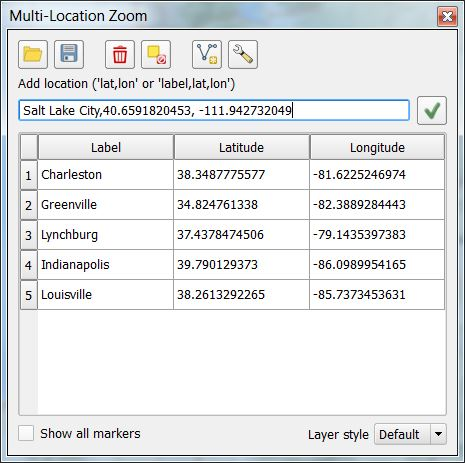
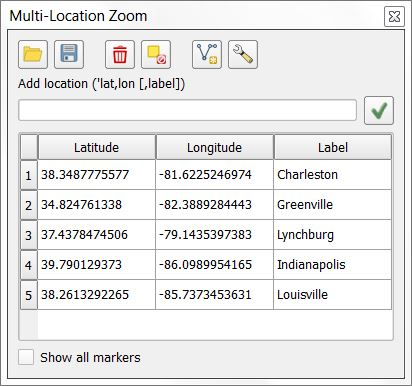
rearranged the multi-zoom coordinate/label order

diff --git a/multizoom.py b/multizoom.py
@@ -23,6 +23,7 @@ class MultiZoomWidget(QDockWidget, FORM_CLASS):
         self.iface = lltools.iface
         self.canvas = self.iface.mapCanvas()
         self.lltools = lltools
+        self.llitems=[]
         
         self.addButton.setIcon(QIcon(os.path.dirname(__file__) + "/images/check.png"))
         self.openButton.setIcon(QIcon(':/images/themes/default/mActionFileOpen.svg'))
@@ -32,7 +33,6 @@ class MultiZoomWidget(QDockWidget, FORM_CLASS):
         self.createLayerButton.setIcon(QIcon(':/images/themes/default/mActionNewVectorLayer.svg'))
         self.optionsButton.setIcon(QIcon(':/images/themes/default/mActionOptions.svg'))
         
-        self.markerStyleComboBox.addItems(['Default','Labeled','Custom'])
         self.openButton.clicked.connect(self.openDialog)
         self.saveButton.clicked.connect(self.saveDialog)
         self.addButton.clicked.connect(self.addSingleCoord)
@@ -47,13 +47,12 @@ class MultiZoomWidget(QDockWidget, FORM_CLASS):
         self.maxResults = 1000
         self.resultsTable.setColumnCount(3)
         self.resultsTable.setSortingEnabled(False)
-        self.resultsTable.setHorizontalHeaderLabels(['Label','Latitude','Longitude'])
+        self.resultsTable.setHorizontalHeaderLabels(['Latitude','Longitude','Label'])
         self.resultsTable.horizontalHeader().setResizeMode(QHeaderView.Stretch)
         self.resultsTable.setSelectionBehavior(QAbstractItemView.SelectRows)
         self.resultsTable.cellClicked.connect(self.itemClicked)
         self.resultsTable.cellChanged.connect(self.cellChanged)
         self.resultsTable.setSelectionMode(QAbstractItemView.SingleSelection)
-        self.llitems=[]
 
     def closeEvent(self, e):
         '''Called when the dialog box is being closed. We want to clear selected features and remove
@@ -130,14 +129,13 @@ class MultiZoomWidget(QDockWidget, FORM_CLASS):
                 for line in f:
                     try:
                         parts = [x.strip() for x in line.split(',')]
-                        if len(parts) == 2:
+                        if len(parts) >=2:
                             lat = LatLon.parseDMSStringSingle(parts[0])
                             lon = LatLon.parseDMSStringSingle(parts[1])
-                            self.addCoord(lat, lon, '')
-                        elif len(parts) == 3:
-                            lat = LatLon.parseDMSStringSingle(parts[1])
-                            lon = LatLon.parseDMSStringSingle(parts[2])
-                            self.addCoord(lat, lon, parts[0])
+                            label = ''
+                            if len(parts) >= 3:
+                                label = parts[2]
+                            self.addCoord(lat, lon, label)
                     except:
                         pass
         except:
@@ -149,7 +147,7 @@ class MultiZoomWidget(QDockWidget, FORM_CLASS):
             return
         with open(fname,'w') as f:
             for item in self.llitems:
-                s = "{},{},{}\n".format(item.label, item.lat, item.lon)
+                s = "{},{},{}\n".format(item.lat, item.lon, item.label)
                 f.write(s)
         f.close()
             
@@ -171,13 +169,12 @@ class MultiZoomWidget(QDockWidget, FORM_CLASS):
         parts = [x.strip() for x in self.addLineEdit.text().split(',')]
         label = ''
         try:
-            if len(parts) == 2:
+            if len(parts) >= 2:
                 lat = LatLon.parseDMSStringSingle(parts[0])
                 lon = LatLon.parseDMSStringSingle(parts[1])
-            elif len(parts) == 3:
-                label = parts[0]
-                lat = LatLon.parseDMSStringSingle(parts[1])
-                lon = LatLon.parseDMSStringSingle(parts[2])
+                label = ''
+                if len(parts) >= 3:
+                    label = parts[2]
             else:
                 self.iface.messageBar().pushMessage("", "Invalid Coordinate" , level=QgsMessageBar.WARNING, duration=3)
                 return
@@ -195,13 +192,13 @@ class MultiZoomWidget(QDockWidget, FORM_CLASS):
         self.resultsTable.insertRow(self.numcoord)
         self.llitems.append(LatLonItem(lat, lon, label))
         self.resultsTable.blockSignals(True)
-        self.resultsTable.setItem(self.numcoord, 0, QTableWidgetItem(label))
+        self.resultsTable.setItem(self.numcoord, 2, QTableWidgetItem(label))
         item = QTableWidgetItem(str(lat))
         item.setFlags(item.flags() & ~Qt.ItemIsEditable)
-        self.resultsTable.setItem(self.numcoord, 1, item)
+        self.resultsTable.setItem(self.numcoord, 0, item)
         item = QTableWidgetItem(str(lon))
         item.setFlags(item.flags() & ~Qt.ItemIsEditable)
-        self.resultsTable.setItem(self.numcoord, 2, item)
+        self.resultsTable.setItem(self.numcoord, 1, item)
         self.resultsTable.blockSignals(False)
         self.numcoord += 1
         if self.showAllCheckBox.checkState():
@@ -231,7 +228,7 @@ class MultiZoomWidget(QDockWidget, FORM_CLASS):
 
         
     def cellChanged(self, row, col):
-        if col == 0:
+        if col == 2:
             self.llitems[row].label = self.resultsTable.item(row, col).text()
             
     def createLayer(self):
@@ -240,28 +237,27 @@ class MultiZoomWidget(QDockWidget, FORM_CLASS):
             return
         ptLayer = QgsVectorLayer("Point?crs=epsg:4326", u"Lat Lon Locations", "memory")
         provider = ptLayer.dataProvider()
-        provider.addAttributes([QgsField("label", QVariant.String),
-            QgsField("latitude", QVariant.Double),
-            QgsField("longitude", QVariant.Double)])
+        provider.addAttributes([QgsField("latitude", QVariant.Double),
+            QgsField("longitude", QVariant.Double),
+            QgsField("label", QVariant.String)])
         ptLayer.updateFields()
         
         for item in self.llitems:
             feature = QgsFeature()
             feature.setGeometry(QgsGeometry.fromPoint(QgsPoint(item.lon,item.lat)))
-            feature.setAttributes([item.label, item.lat, item.lon])
+            feature.setAttributes([item.lat, item.lon, item.label])
             provider.addFeatures([feature])
         
         ptLayer.updateExtents()
         
-        if self.markerStyleComboBox.currentIndex() == 1:
+        if self.settings.multiZoomStyleID == 1:
             label = QgsPalLayerSettings()
             label.readFromLayer(ptLayer)
             label.enabled = True
             label.fieldName = 'label'
             label.placement= QgsPalLayerSettings.AroundPoint
-            label.setDataDefinedProperty(QgsPalLayerSettings.Size,True,True,'9','')
             label.writeToLayer(ptLayer)
-        elif self.markerStyleComboBox.currentIndex() == 2 and os.path.isfile(self.settings.customQMLFile()):
+        elif self.settings.multiZoomStyleID == 2 and os.path.isfile(self.settings.customQMLFile()):
             ptLayer.loadNamedStyle(self.settings.customQMLFile())
             
         QgsMapLayerRegistry.instance().addMapLayer(ptLayer)

diff --git a/settings.py b/settings.py
@@ -54,11 +54,10 @@ class SettingsWidget(QDialog, FORM_CLASS):
         
         ### MULTI-ZOOM ###
         self.qmlBrowseButton.clicked.connect(self.qmlOpenDialog)
-        
+        self.markerStyleComboBox.addItems(['Default','Labeled','Custom'])
         
         self.readSettings()
-
-        
+    
     def captureCustomCRS(self):
         return self.captureProjectionSelectionWidget.crs()
         
@@ -96,6 +95,7 @@ class SettingsWidget(QDialog, FORM_CLASS):
         
         ### Multi-zoom Settings ###
         self.qmlLineEdit.setText('')
+        self.markerStyleComboBox.setCurrentIndex(0)
         
     def readSettings(self):
         '''Load the user selected settings. The settings are retained even when
@@ -121,10 +121,11 @@ class SettingsWidget(QDialog, FORM_CLASS):
         self.mapZoom = int(settings.value('/LatLonTools/MapZoom', 13))
         
         ### MULTI-ZOOM CUSTOM QML STYLE ###
+        self.multiZoomStyleID = int(settings.value('/LatLonTools/MultiZoomStyleID', 0))
         self.qmlStyle = settings.value('/LatLonTools/QmlStyle', '')
         if not os.path.isfile(self.qmlStyle):
             self.qmlStyle = ''
-        self.qmlLineEdit.setText(self.qmlStyle)
+            self.multiZoomStyleID = 0
         
         self.setEnabled()
         
@@ -161,6 +162,7 @@ class SettingsWidget(QDialog, FORM_CLASS):
         settings.setValue('/LatLonTools/MapZoom',int(self.zoomSpinBox.value()))
         
         ### MULTI-ZOOM CUSTOM QML STYLE ###
+        settings.setValue('/LatLonTools/MultiZoomStyleID', int(self.markerStyleComboBox.currentIndex()))
         settings.setValue('/LatLonTools/QmlStyle', self.qmlStyle)
         
         self.readSettings()
@@ -223,6 +225,10 @@ class SettingsWidget(QDialog, FORM_CLASS):
         self.showPlacemarkCheckBox.setCheckState(self.showPlacemark)
         self.mapProviderComboBox.setCurrentIndex(self.mapProvider)
         self.zoomSpinBox.setValue(self.mapZoom)
+
+        ### MULTI-ZOOM CUSTOM QML STYLE ###
+        self.markerStyleComboBox.setCurrentIndex(self.multiZoomStyleID)
+        self.qmlLineEdit.setText(self.qmlStyle)
         
         self.setEnabled()
 

diff --git a/readme.md b/readme.md
@@ -18,20 +18,16 @@
 
 * <img src="images/mapicon.png" alt="Show in External Map"> ***Show in External Map*** - With this tool, the user can click on the QGIS map which launches an external browser and displays the location on an external map. Currently Open Street Map, Google Maps, and Bing Maps are supported. The desired map can be configured in **Settings**.
 * <img src="images/multizoom.png" alt="Multi-location Zoom"> ***Multi-location Zoom*** - Here the user can define a set of quick zoom-to locations. The user can also paste or type in a coordinate in the ***Add location*** box and add it to the list.  When the user clicks on a list location, QGIS centers the map on the location and highlights it. Double clicking on a **Label** cell allows the text to be edited. The following are additional functions.
-    * <img src="doc/open.png" alt="Open"> ***Open Location List*** reads in a set of coordinates that are comma separated with an optional label. There should only be one location per line and formatted as **"label,latitude,longitude"** or **"latitude,longitude"**.
-    * <img src="doc/save.png" alt="Save"> ***Save Location List*** saves all of the zoom-to entries in a .csv file, formatted as **"label,latitude,longitude"**.
+    * <img src="doc/open.png" alt="Open"> ***Open Location List*** reads in a set of coordinates that are comma separated with an optional label. There should only be one location per line and formatted as **"latitude,longitude,label"** or **"latitude,longitude"**.
+    * <img src="doc/save.png" alt="Save"> ***Save Location List*** saves all of the zoom-to entries in a .csv file, formatted as **"latitude,longitude,label"**.
     * <img src="doc/delete.png" alt="Delete"> ***Delete Selected Location*** removes the selected location. 
     * <img src="doc/deleteall.png" alt="Clear All"> ***Clear All Locations*** removes all of the list entries.
     * <img src="doc/newlayer.png" alt="New"> ***Create Vector Layer From Location List*** creates a memory layer out of the zoom-to locations. 
-    * <img src="doc/settings.png" alt="Settings"> ***Show Style Settings*** chooses a QGIS .qml file to be used to style the layer created from the create layer button.
+    * <img src="doc/settings.png" alt="Settings"> ***Show Style Settings*** chooses a style for the layer created from the create layer button. This displays the **Settings** dialog box.
 
     <div style="text-align:center"><img src="doc/multizoom.jpg" alt="Multi-location Zoom"></div>
     
     * The ***Show all markers*** displays markers of all locations.
-    * ***Layer style*** determins whether the ***Create Vector Layer Fron Location List*** styles the newly created points layer or not. The options are:
-        * ***Default*** - No style is applied.
-        * ***Label*** - The newly created layer will have labels next to the points.
-        * ***Custom*** - The user can create a QGIS .qml file that contains style infomation on how to style the new layer. If this is configured, then this will apply this style to the new layer.
 
 * ***MGRS Conversions***
     * <img src="images/mgrs2point.png" alt="MGRS to Geometry"> ***MGRS to Geometry*** - This takes a table or vector layer and if there is a field that contains MGRS coordinates, it converts the layer to a new point vector layer where each record is converted to WGS84 (EPSG:4326) geometry.
@@ -123,4 +119,9 @@ Here you can ***Select an External Map Provider***. The options are:
 
 ![Multi-zoom Settings](doc/settings4.jpg)
 
-Here the user can specify a .qml style file that contains styling used by the ***Multi-zoom***, ***Create Vector Layer From Location List*** when ***Custom*** style is selected. 
+Here the user can specify a style for the multi-zoom to create layer. It can be a simple default style, default with labels, or a .qml style file that contains advanced styling.  
+
+* ***Default style for multi-zoom new layers*** determins the new layer style when ***Create Vector Layer Fron Location List*** is clicked on. The options are:
+    * ***Default*** - No style is applied.
+    * ***Label*** - The newly created layer will have labels next to the points.
+    * ***Custom*** - The user can create a QGIS .qml file that contains style infomation on how to style the new layer. If this is configured, then this will apply this style to the new layer.
